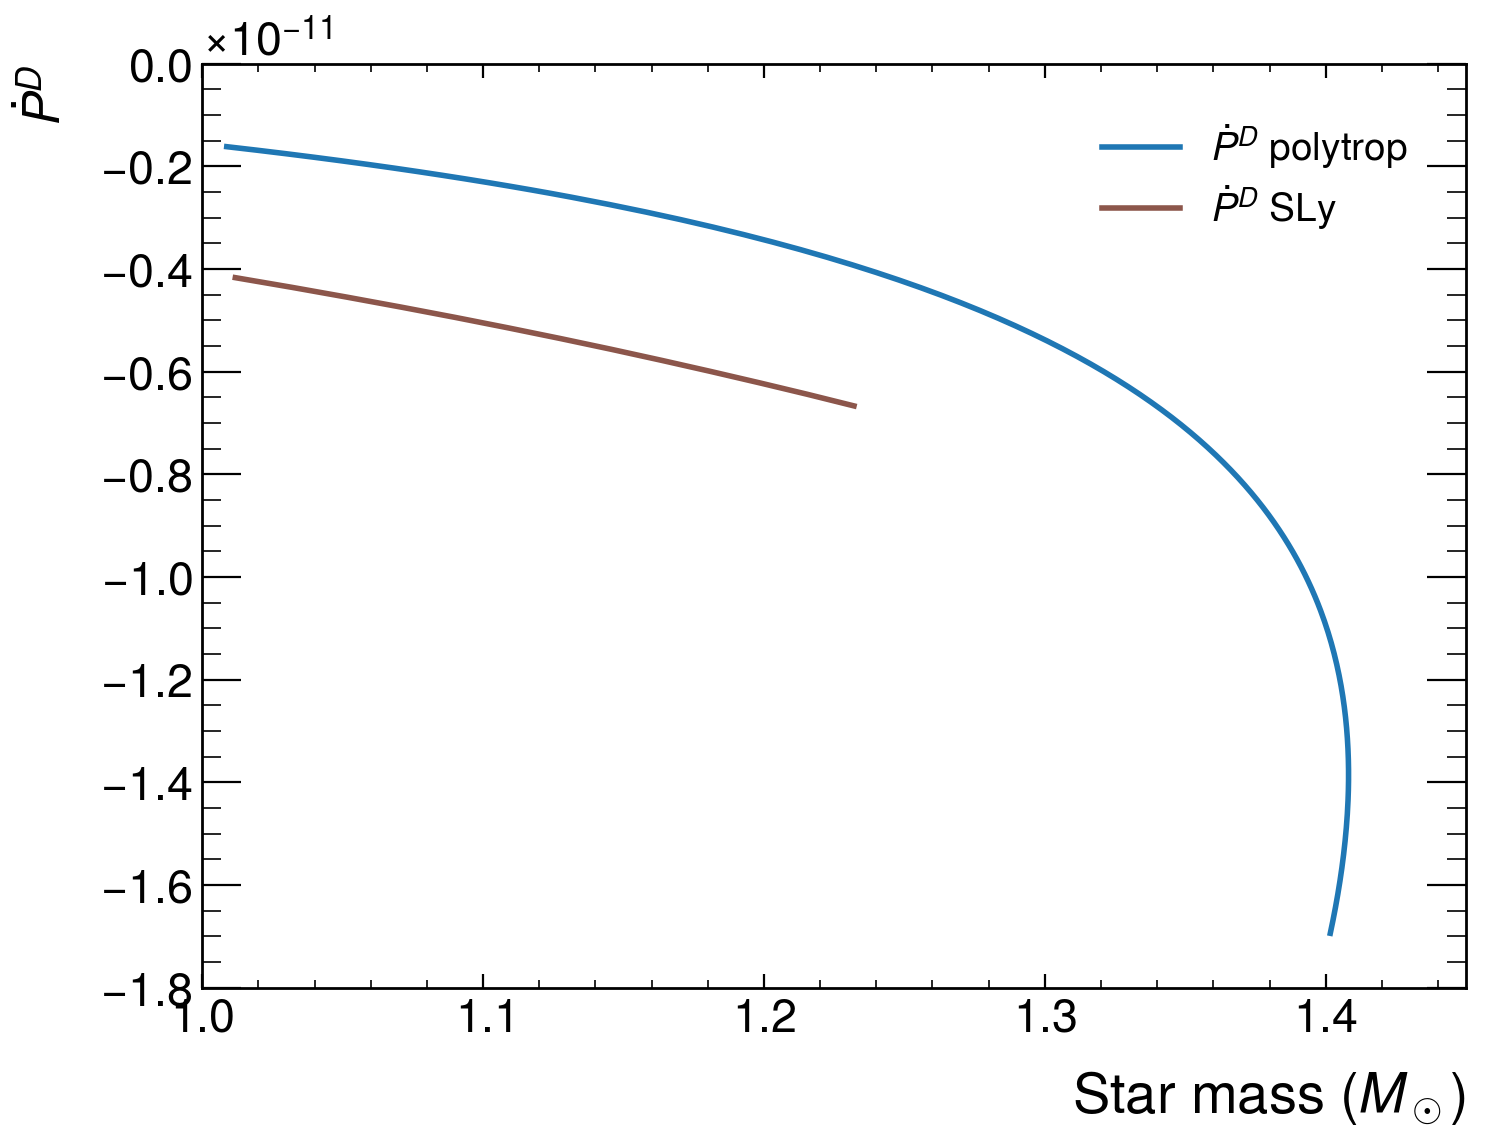
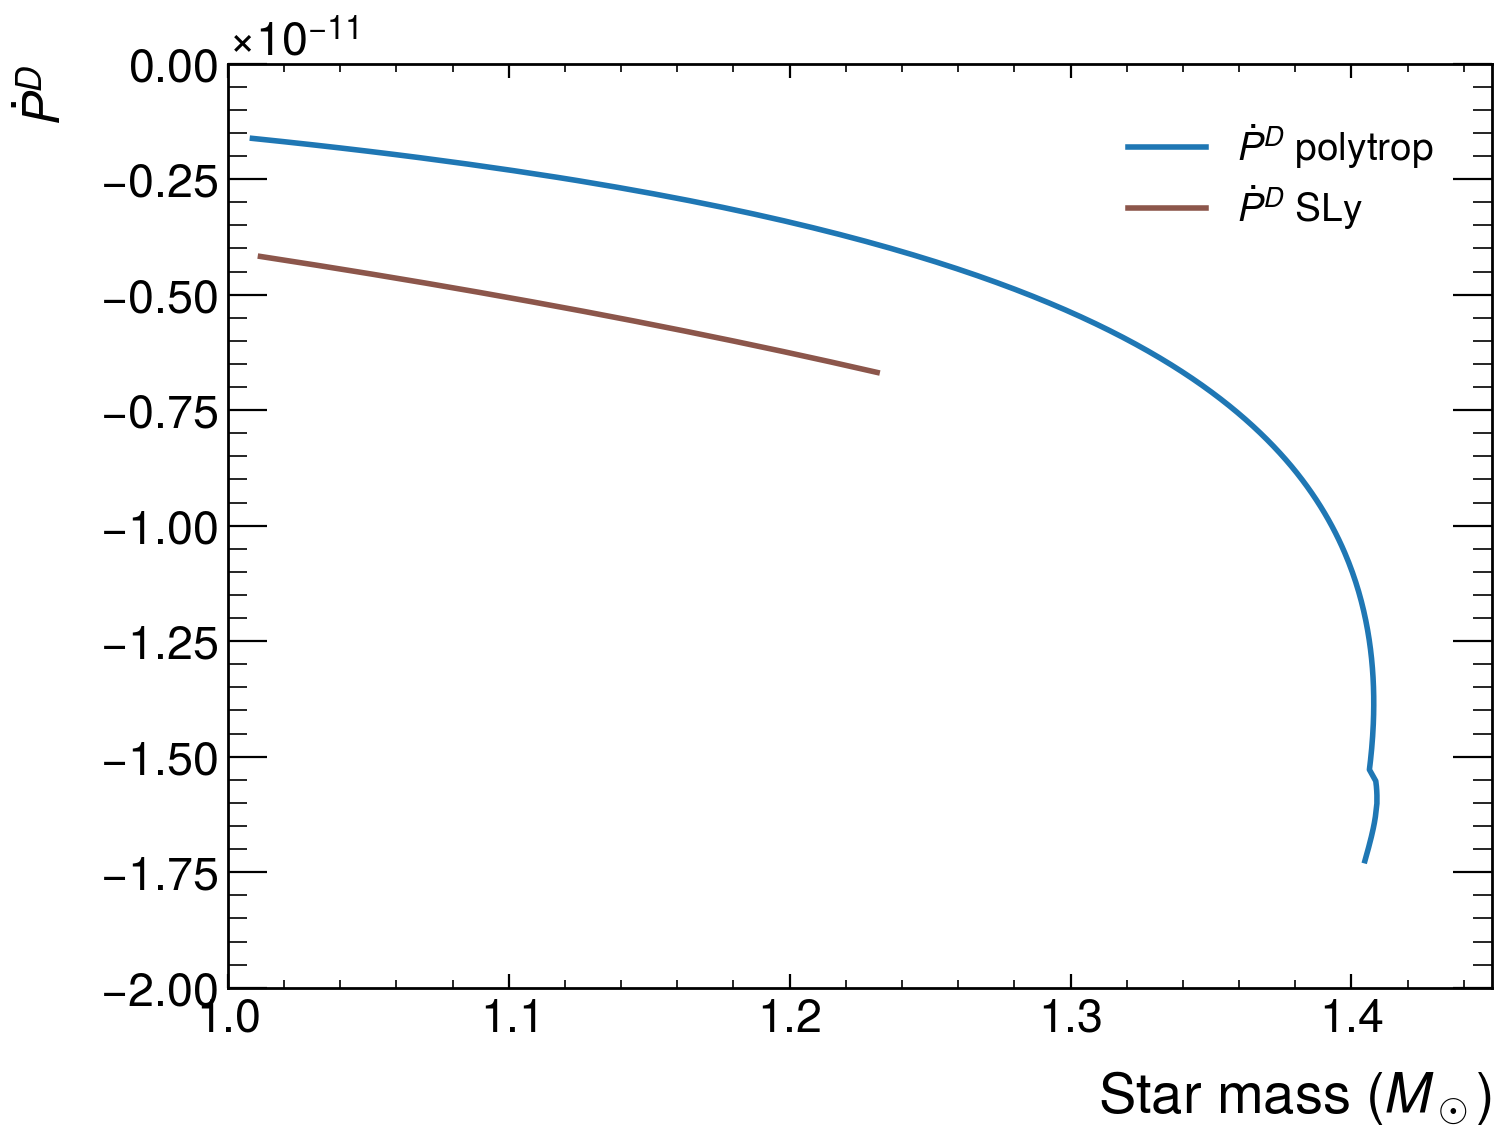
dipolar effect + exact param compute in one code

diff --git a/In Entangled Relativity/Neutron_star/Dipolar gravitational waves/TOV.py b/In Entangled Relativity/Neutron_star/Dipolar gravitational waves/TOV.py
@@ -203,16 +203,17 @@ class TOV():
         y0 = [self.initDensity,self.initMass,self.initPhi,self.initPsi]
         if self.log_active:
             print('y0 = ', y0,'\n')
-        r = np.linspace(10**(-20),self.radiusMax_in,self.Npoint)
+        r_min = 10**(-9)
+        r = np.linspace(r_min,self.radiusMax_in,self.Npoint)
         if self.log_active:
-            print('radius min ',10**(-20))
+            print('radius min ',r_min)
             print('radius max ',self.radiusMax_in)
         stop_condition.terminal = True
         stop_condition.direction = -1
-        sol = solve_ivp(dy_dr, [10**(-20), self.radiusMax_in], y0, method='RK45', t_eval=r, events = stop_condition, args=(self.option,self.dilaton_active, self.option_eqs))
+        sol = solve_ivp(dy_dr, [r_min, self.radiusMax_in], y0, method='RK45', t_eval=r, events = stop_condition, args=(self.option,self.dilaton_active, self.option_eqs))
         if sol.t[-1]<self.radiusMax_in:
-            self.pressure = sol.y[0][0:-2]
-            self.pressure_in = self.pressure
+            self.pressure = sol.y[0][0:-2] # le densité
+            self.pressure_in = self.pressure# le densité
             self.mass = sol.y[1][0:-2]
             self.Phi = sol.y[2][0:-2]
             self.Psi = sol.y[3][0:-2]
@@ -224,14 +225,14 @@ class TOV():
             # Value at the radius of star
             self.massStar = sol.y[1][-1]
             self.radiusStar = sol.t[-1]
-            self.pressureStar = sol.y[0][-1]
+            self.pressureStar = sol.y[0][-1]# le densité
             self.phiStar = sol.y[2][-1]
             n_star = len(self.radius)
             if self.log_active:
                 print('Star radius: ', self.radiusStar/1000, ' km')
                 print('Star Mass: ', self.massStar/massSun, ' solar mass')
                 print('Star Mass: ', self.massStar, ' kg')
-                print('Star pressure: ', self.pressureStar, ' Pa\n')
+                print('Star pressure: ', self.pressureStar, ' Pa\n')# le densité
             if self.log_active:
                 print('===========================================================')
                 print('SOLVER OUTSIDE THE STAR')
@@ -271,9 +272,15 @@ class TOV():
                 print('===========================================================\n')
 
 
-            E_int = kappa/3 * simps(radiusetoile**2 * np.sqrt( self.g_tt[0:len(radiusetoile)] * self.g_rr[0:len(radiusetoile)] ) * (((self.pressure[0:len(radiusetoile)])/k)**(3/5) *c2) * np.sqrt(self.Phi[0:len(radiusetoile)]) , radiusetoile )
+
+#             E_int = kappa/3 * simps(radiusetoile**2 * np.sqrt( self.g_tt[0:len(radiusetoile)] * self.g_rr[0:len(radiusetoile)] ) * (((self.pressure[0:len(radiusetoile)])/k)**(3/5) *c2) * np.sqrt(self.Phi[0:len(radiusetoile)]) , radiusetoile )
+#             # print('E_int', E_int)
+#             P_int = kappa/3 * simps(radiusetoile**2 * np.sqrt( self.g_tt[0:len(radiusetoile)] * self.g_rr[0:len(radiusetoile)] ) * self.pressure[0:len(radiusetoile)] * np.sqrt(self.Phi[0:len(radiusetoile)]), radiusetoile)
+#
+#
+            E_int = kappa/3 * simps(radiusetoile**2 * np.sqrt( self.g_tt[0:len(radiusetoile)] * self.g_rr[0:len(radiusetoile)] ) * (((self.pressure[0:len(radiusetoile)]))*c2) * np.sqrt(self.Phi[0:len(radiusetoile)]) , radiusetoile )
             # print('E_int', E_int)
-            P_int = kappa/3 * simps(radiusetoile**2 * np.sqrt( self.g_tt[0:len(radiusetoile)] * self.g_rr[0:len(radiusetoile)] ) * self.pressure[0:len(radiusetoile)] * np.sqrt(self.Phi[0:len(radiusetoile)]), radiusetoile)
+            P_int = kappa/3 * simps(radiusetoile**2 * np.sqrt( self.g_tt[0:len(radiusetoile)] * self.g_rr[0:len(radiusetoile)] ) * self.pressure[0:len(radiusetoile)]**(5/3) * k * np.sqrt(self.Phi[0:len(radiusetoile)]), radiusetoile)
             theta = 3 * P_int/E_int
             gamma_theta = (1+ theta*(2) + 1/2)/(2 + theta*(1)-1/2)
             self.Ge_theta = gamma_theta

diff --git a/In Entangled Relativity/Neutron_star/Dipolar gravitational waves/Get_all_figures.py b/In Entangled Relativity/Neutron_star/Dipolar gravitational waves/Get_all_figures.py
@@ -124,6 +124,30 @@ def evaluate_pdot(n):
     pdot_a = pdot_a[0:index_max]
     mass_ADM_a = mass_ADM_a[0:index_max]
 
+
+    comment = '$L_m = -\\rho$'
+
+    #plot 1 - gamma
+    fig,ax = plt.subplots()
+    plt.xlabel('Central density ($MeV/fm^3$)')
+    ax.plot(den_space,(1-gamma_edd_a), label=f'$1-\\gamma_e$ ({comment})', color = 'tab:blue')
+    ax.set_ylabel('$1-\\gamma_e$', fontsize=18)#, color = 'tab:blue')
+    fig.legend( bbox_to_anchor=(0.9, 0.6))
+    plt.savefig(f'./gamma_exact_m.png', dpi = 200,bbox_inches='tight')
+    # plt.show()
+    plt.close()
+
+    #plot 1 - delta :
+    fig,ax = plt.subplots()
+    plt.xlabel('Central density ($MeV/fm^3$)')
+    ax.plot(den_space,(1-delta_edd_a), label=f'$1-\\delta_e$ ({comment})', color = 'tab:blue')
+    ax.set_ylabel('$1-\\delta_e$', fontsize=18)#, color = 'tab:blue')
+    fig.legend( bbox_to_anchor=(0.9, 0.6))
+    plt.savefig(f'./delta_exact_m.png', dpi = 200,bbox_inches='tight')
+    # plt.show()
+    plt.close()
+
+
 #loop that compute the paramaters for SLy EoS
     den_space_SLy = np.linspace(100,2000,num=n) #min max density
 
@@ -175,6 +199,19 @@ def evaluate_pdot(n):
     plt.savefig(f'./pdot_versus_mass.png', dpi = 200,bbox_inches='tight')
     # plt.show()
     plt.close()
+
+
+    print(f'maximal deviation in percent between both gamma computation = {max(abs(gamma_dev_per_a)):.3f}%')
+    print(f'maximal deviation in percent between both delta computation = {max(abs(delta_dev_per_a)):.3f}%\n')
+
+    print(f'minimal deviation from unity of gamma = {min(abs(1 - (gamma_edd_a)))*100:.3f}%')
+    print(f'minimal deviation from unity of delta = {min(abs(1 - (delta_edd_a)))*100:.3f}%\n')
+
+    print(f'maximal deviation from unity of gamma = {max(abs(1 - (gamma_edd_a)))*100:.3f}%')
+    print(f'maximal deviation from unity of delta = {max(abs(1 - (delta_edd_a)))*100:.3f}%')
+
+
+
 
 # #Ploting pdot versus star's mass for polytropic EoS
 #     fig,ax = plt.subplots()

diff --git a/In Entangled Relativity/Neutron_star/exact parameter estimation/TOV.py b/In Entangled Relativity/Neutron_star/exact parameter estimation/TOV.py
@@ -182,6 +182,8 @@ class TOV():
         '''
         if sol.t[-1]<self.radiusMax_in:
             self.pressure = sol.y[0][0:-2]
+            print('pressure', self.pressure)
+            print('density', (self.pressure/k)**(3/5))
             self.mass = sol.y[1][0:-2]
             self.Phi = sol.y[2][0:-2]
             self.v_c = v_sound_c(self.Phi, self.pressure)
@@ -245,9 +247,10 @@ class TOV():
                 print('END')
                 print('===========================================================\n')
 
+            print('RADIUS ETOILE',((self.pressure[0:len(radiusetoile)])/k)**(3/5))
 
             E_int = kappa/3 * simps(radiusetoile**2 * np.sqrt( self.g_tt[0:len(radiusetoile)] * self.g_rr[0:len(radiusetoile)] ) * (((self.pressure[0:len(radiusetoile)])/k)**(3/5) *c2) * np.sqrt(self.Phi[0:len(radiusetoile)]) , radiusetoile )
-            # print('E_int', E_int)
+            print('E_int', E_int)
             P_int = kappa/3 * simps(radiusetoile**2 * np.sqrt( self.g_tt[0:len(radiusetoile)] * self.g_rr[0:len(radiusetoile)] ) * self.pressure[0:len(radiusetoile)] * np.sqrt(self.Phi[0:len(radiusetoile)]), radiusetoile)
             theta = 3 * P_int/E_int
             gamma_theta = (1+ theta*(2) + 1/2)/(2 + theta*(1)-1/2)
